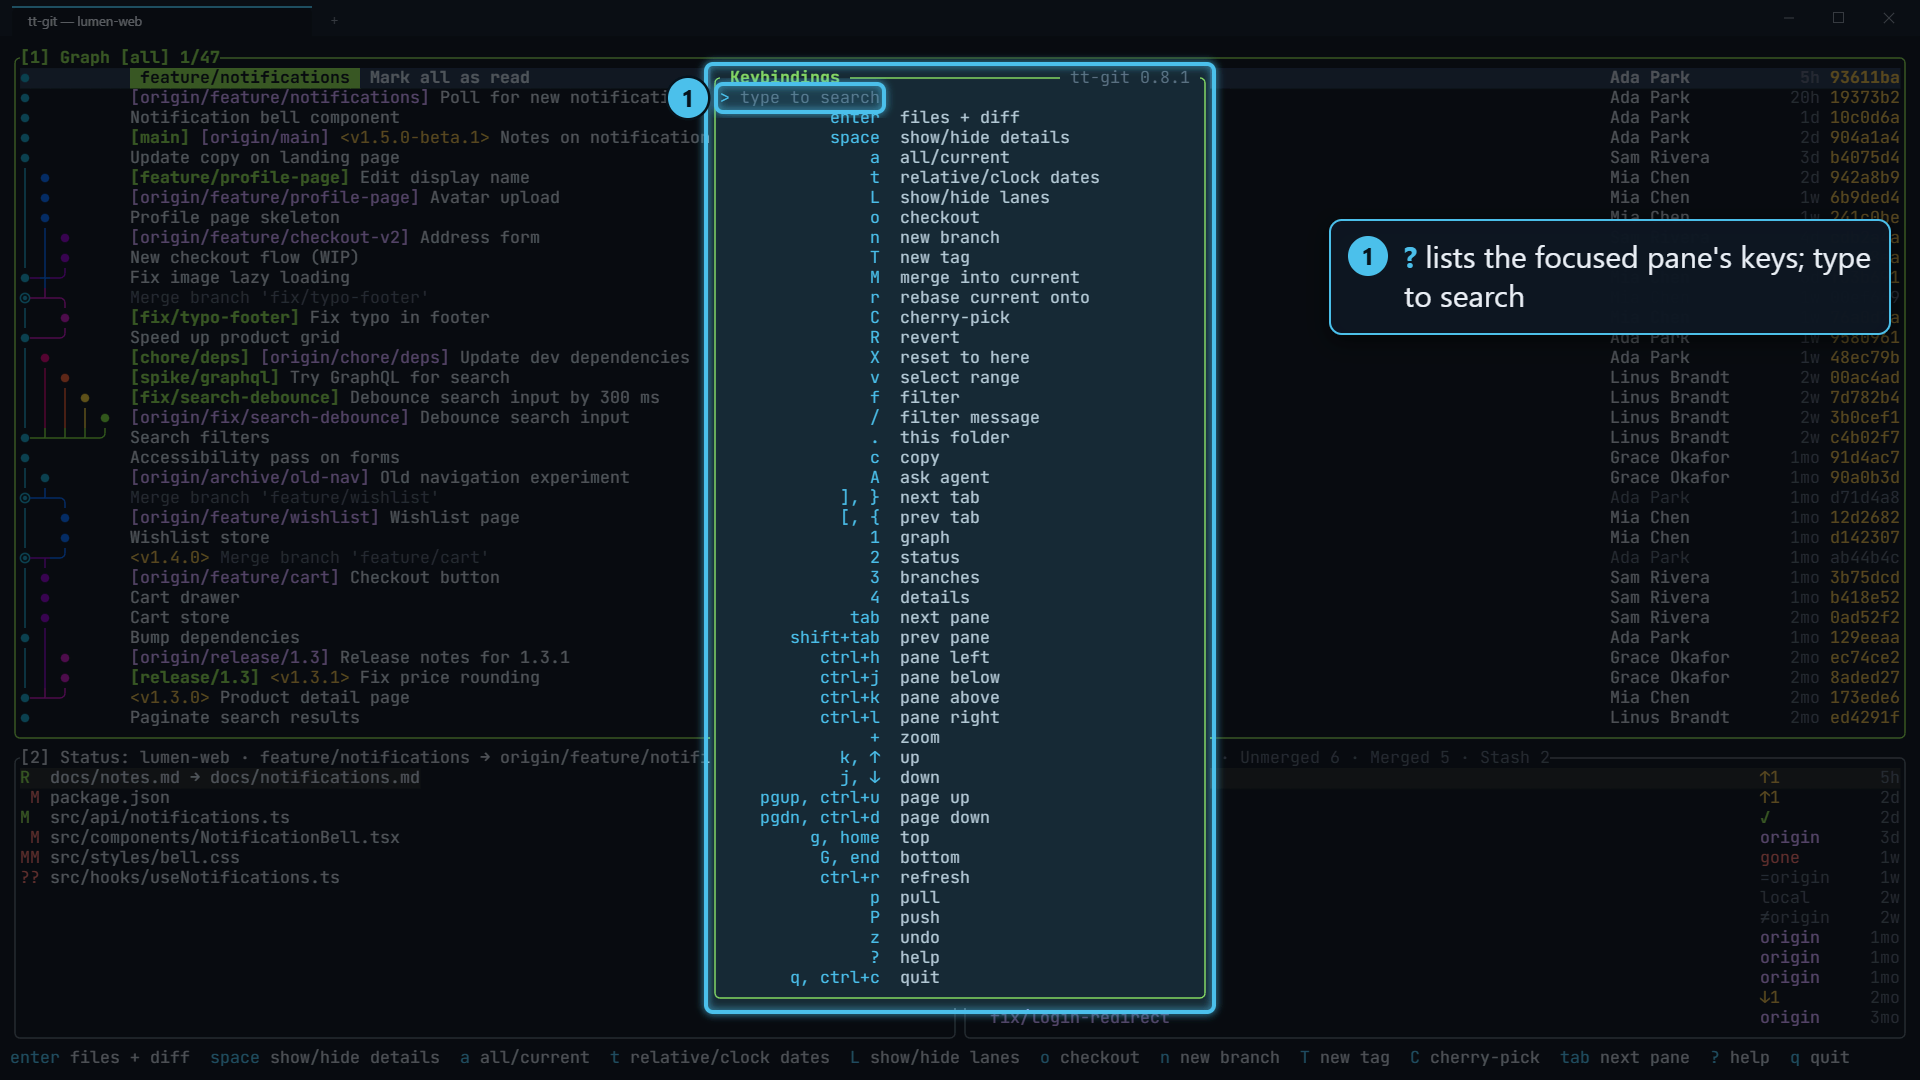
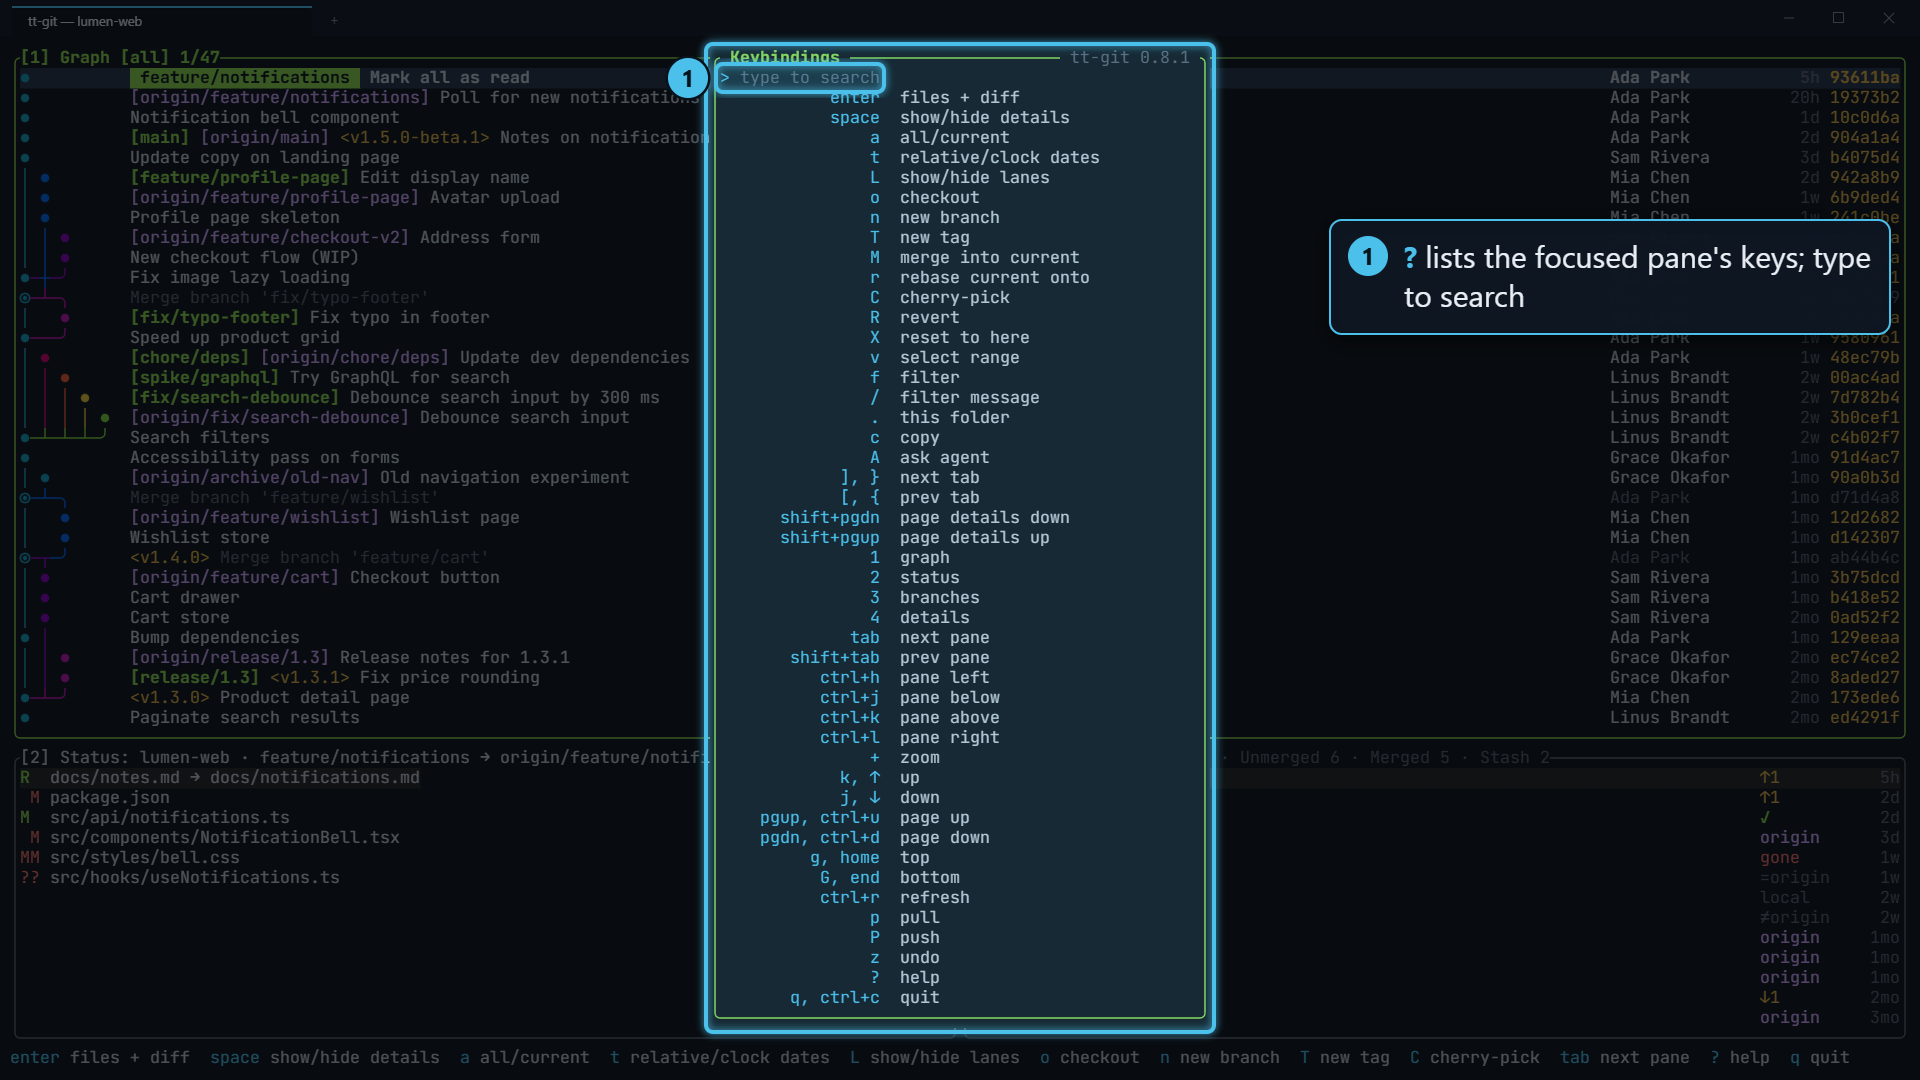
docs(graph): Describe paging details from the graph with shift+pageup and shift+pagedown

Changed region(s): [[0.3438, 0.0306, 0.6562, 0.6111], [0.3438, 0.6111, 0.6562, 0.9778], [0.4062, 0.5806, 0.4375, 0.6111]]

diff --git a/README.md b/README.md
@@ -107,6 +107,7 @@ command palette, which lists built-in commands and plugin actions.
 | | `q` | quit |
 | graph | `enter` | the commit fullscreen: changed files on the left, the selected file's diff on the right (`j`/`k` pick a file, `pgup`/`pgdn` scroll, `esc` or `space` back) |
 | | `space` | show / hide the commit's details (they replace the bottom row) |
+| | `shift+pgdn` `shift+pgup` | page the details down / up without leaving the graph |
 | | `esc` | end a range; else hide details (with details hidden: clear the filter) |
 | | `a` | all branches ↔ current branch |
 | | `t` | dates as age (`3h`) ↔ local date and time (`2026-10-17 01:30 PM`) |

diff --git a/docs/configuration.md b/docs/configuration.md
@@ -236,6 +236,7 @@ Write keys as `q`, `Q`, `shift+q`, `ctrl+c`, `alt+enter`, `shift+tab`,
 | `zoom` | `+` | global |
 | `expand_details` | `enter` | graph |
 | `toggle_details` | `space` | graph |
+| `details_page_down`, `details_page_up` | `shift+pagedown`, `shift+pageup` (pages details without focusing it) | graph |
 | `close_details` | `esc` (graph); `esc` `space` (details) | graph, details |
 | `move_up`, `move_down`, `page_up`, `page_down`, `top`, `bottom` | `k`/`↑`, `j`/`↓`, `ctrl+u`, `ctrl+d`, `g`, `G` | global |
 | `refresh`, `push`, `pull` | `ctrl+r`, `P`, `p` | global |
